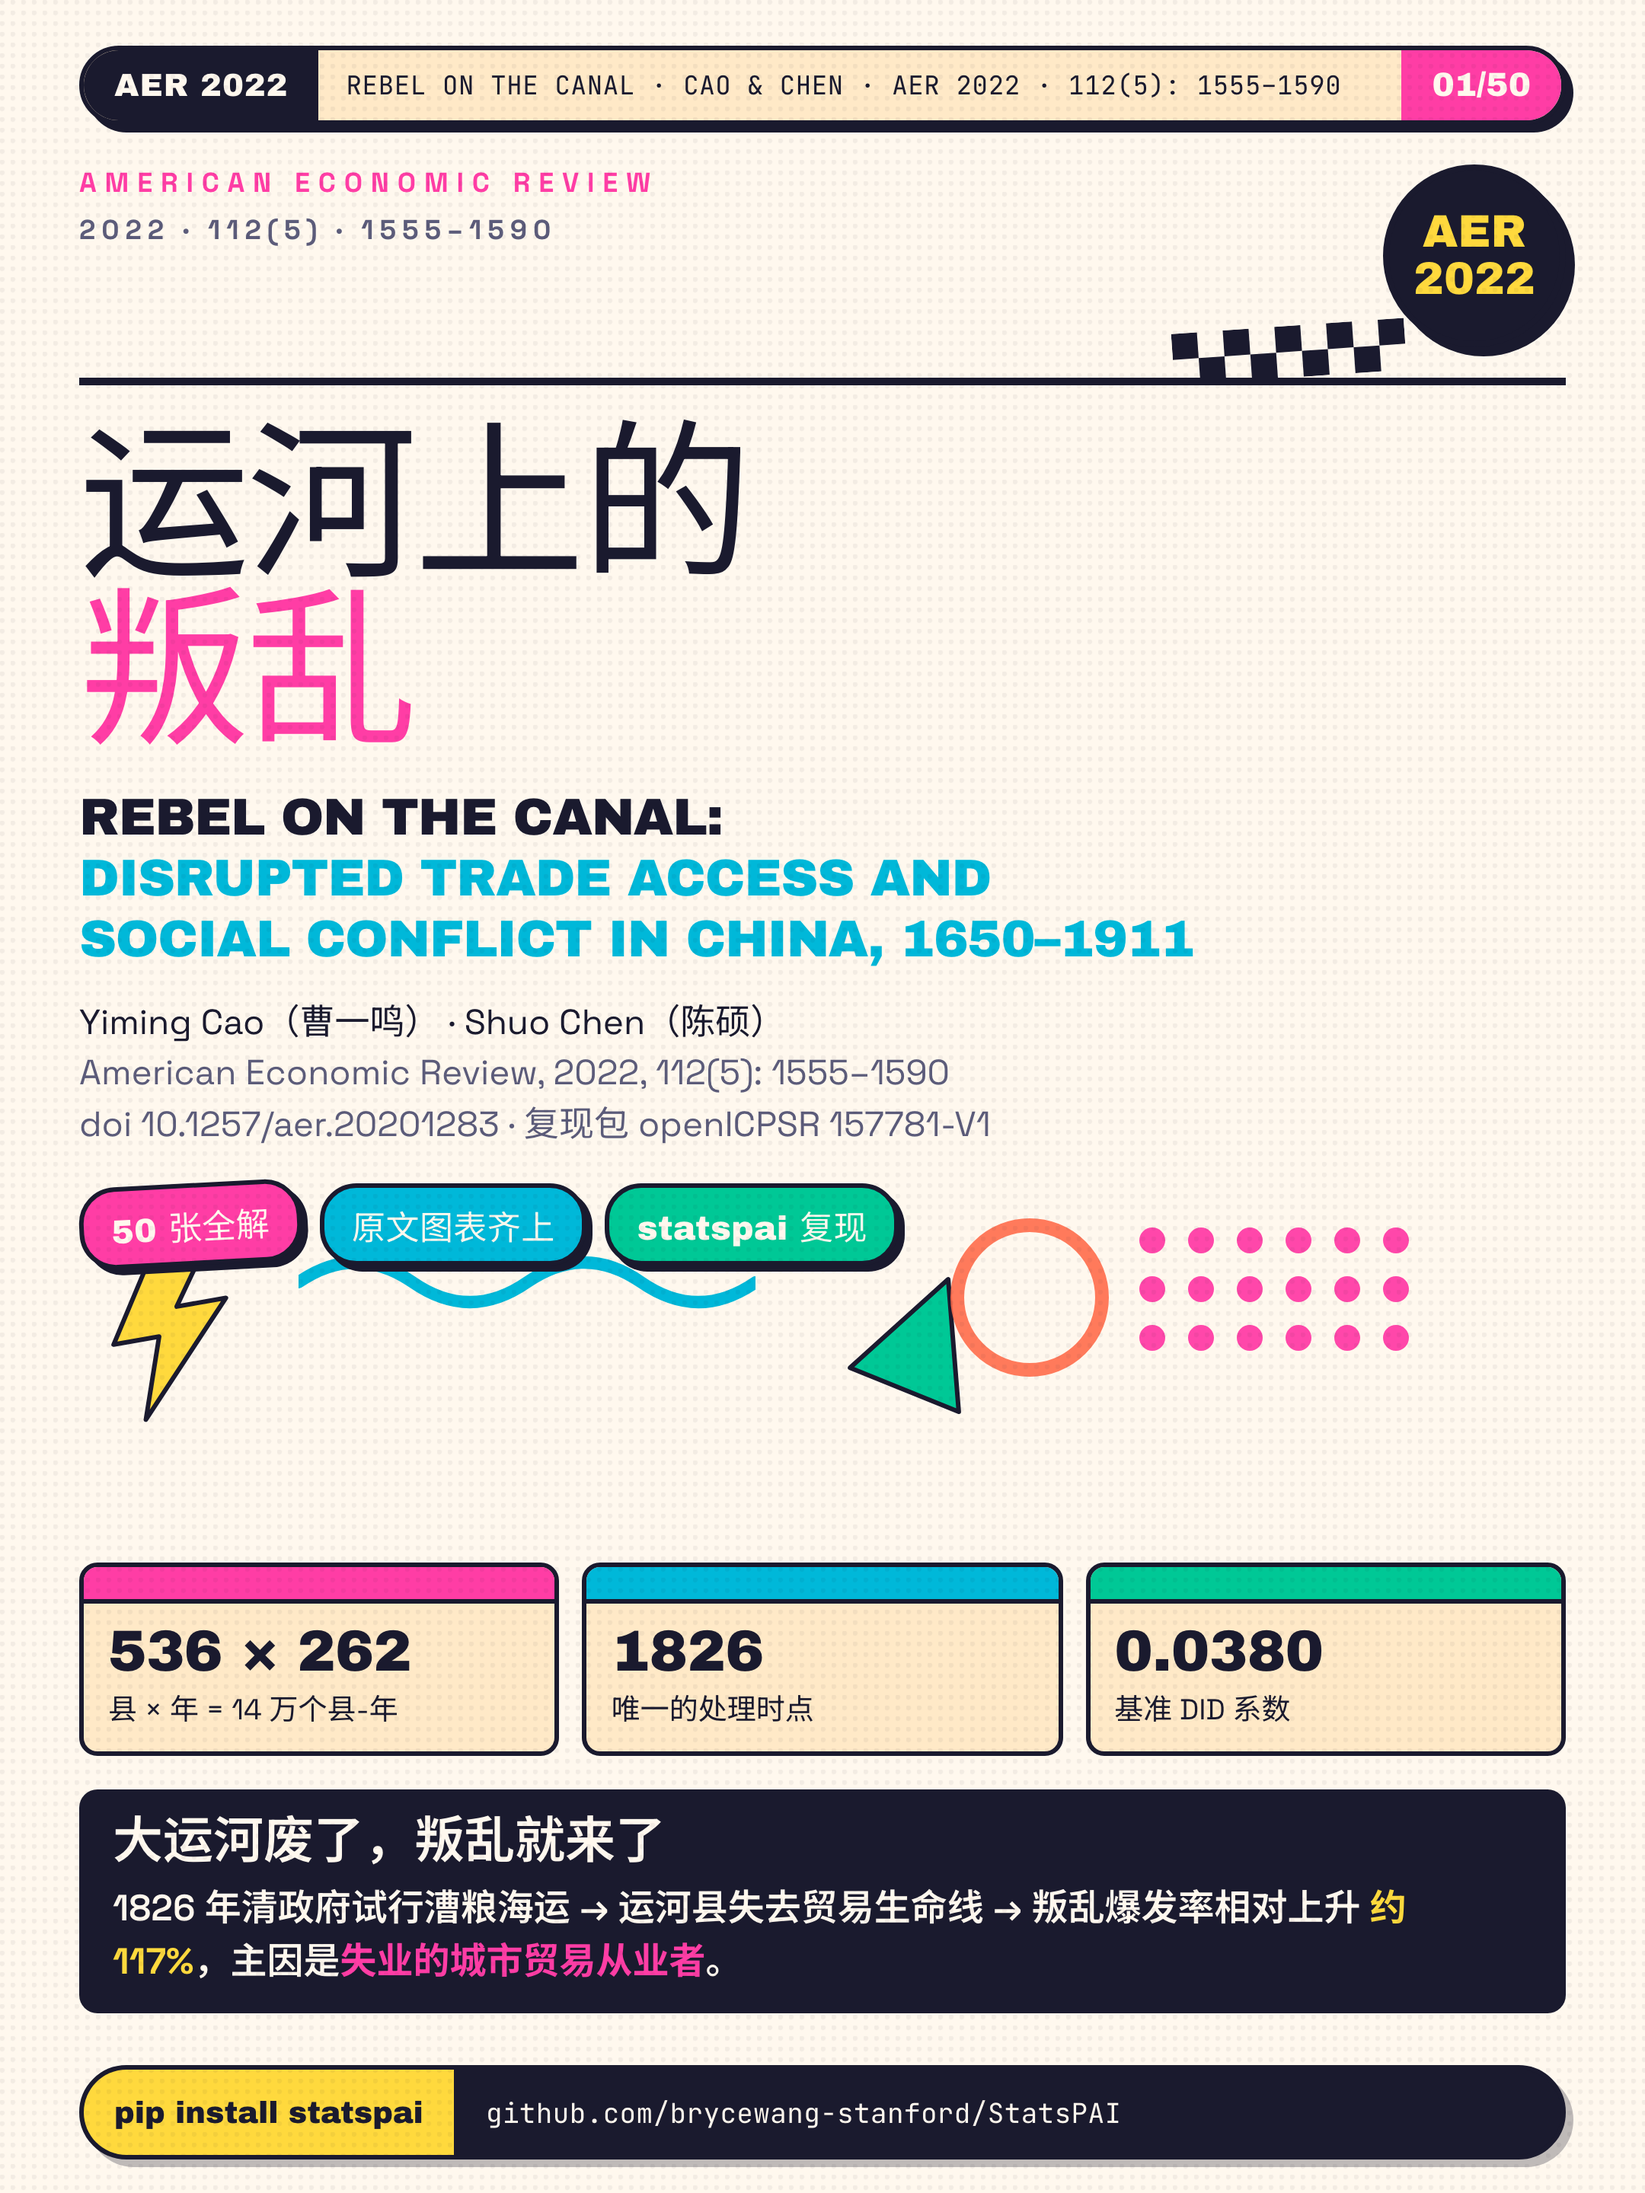
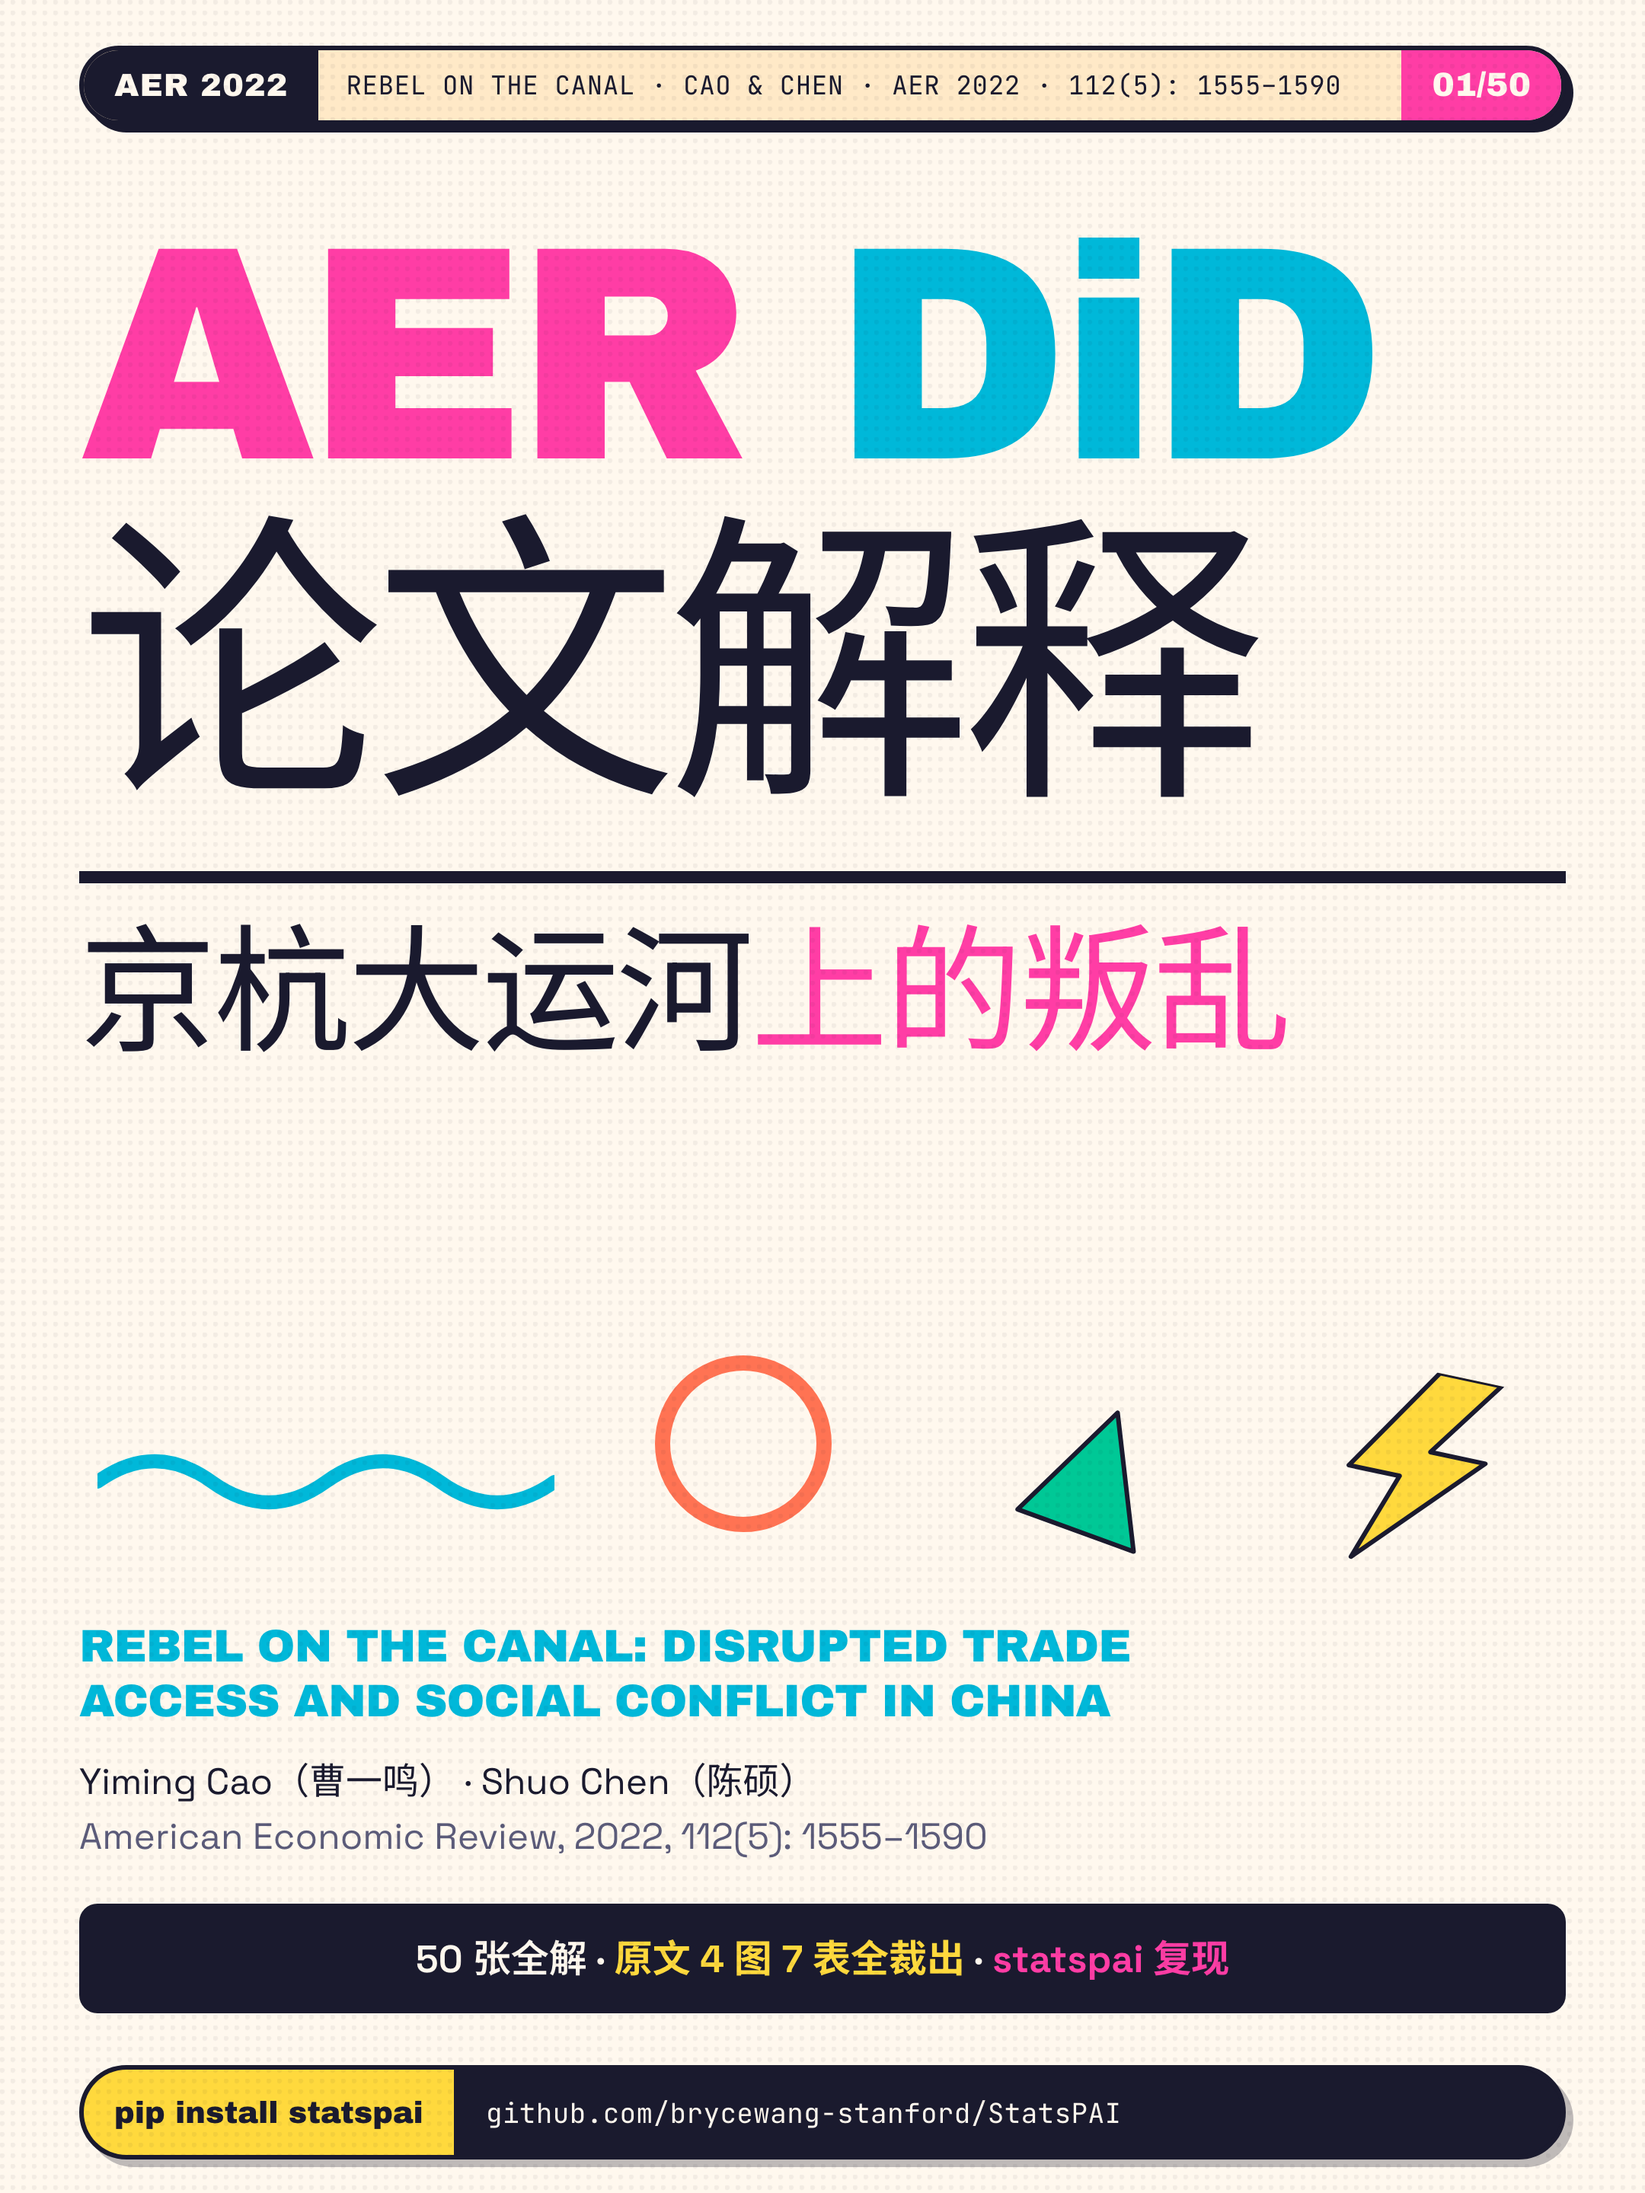
封面重排：一级标题「AER DiD 论文解释」放到最大，元素做减法
- 一级标题 AER DiD 论文解释 提到 200px，撞色 AER 粉 + DiD 蓝
- 二级标题「京杭大运河上的叛乱」降到 90px，「上的叛乱」粉色收尾
- 删掉 AER 圆章、期刊 kicker、三枚印戳、三张数字卡片、结论黑条、
  棋盘条纹与 DOI 行，封面元素从 11 个块减到 5 个
- 装饰碎片移到中间空白带，不再压住英文原题

diff --git a/小红书海报/_源码/posters.py b/小红书海报/_源码/posters.py
@@ -105,59 +105,31 @@ def station(no, cn, en, bullets, color, pages="", tail=""):
 
 # ═══════════════════════════════════════════ 01 封面
 add("封面", CV(f"""
-  <div style="height:26px"></div>
-  <div style="display:flex;align-items:flex-start;gap:18px">
-    <div style="flex:1">
-      <div class="micro xl" style="color:{PINK}">AMERICAN ECONOMIC REVIEW</div>
-      <div class="micro lg mut" style="margin-top:8px">2022 · 112(5) · 1555–1590</div>
-    </div>
-    <div class="seal ink">AER<br>2022</div>
-  </div>
-  <div style="height:5px;background:{INK};margin:20px 0 26px"></div>
-
-  <div class="hero" style="font-size:112px">运河上的</div>
-  <div class="hero" style="font-size:112px;color:{PINK}">叛乱</div>
-  <div class="hero" style="font-size:34px;margin-top:18px;line-height:1.18">
-    REBEL ON THE CANAL:<br>
-    <span style="color:{BLUE}">DISRUPTED TRADE ACCESS AND</span><br>
-    <span style="color:{BLUE}">SOCIAL CONFLICT IN CHINA, 1650–1911</span></div>
-  <div style="font-size:23px;line-height:1.45;margin-top:18px">
-    Yiming Cao（曹一鸣） · Shuo Chen（陈硕）<br>
-    <span style="color:{MUT}">American Economic Review, 2022, 112(5): 1555–1590<br>
-    doi 10.1257/aer.20201283 · 复现包 openICPSR 157781-V1</span></div>
-
-  <div style="margin-top:22px;display:flex;gap:12px;align-items:center;flex-wrap:wrap">
-    <span class="stamp">50 张全解</span>
-    <span class="stamp blue flat">原文图表齐上</span>
-    <span class="stamp mint flat">statspai 复现</span>
-  </div>
+  <div style="height:52px"></div>
+  <div class="hero" style="font-size:200px;letter-spacing:-.035em;line-height:1.0">
+    <span style="color:{PINK}">AER</span> <span style="color:{BLUE}">DiD</span></div>
+  <div class="hero" style="font-size:200px;letter-spacing:-.035em;line-height:1.06">
+    论文解释</div>
+  <div style="height:8px;background:{INK};margin:26px 0 24px"></div>
+  <div class="hero" style="font-size:90px;letter-spacing:-.02em;line-height:1.1">
+    京杭大运河<span style="color:{PINK}">上的叛乱</span></div>
 
   <div style="flex:1"></div>
-  <div class="g3" style="margin-bottom:22px">
-    <div class="card flat dk"><div class="strip" style="background:{PINK}"></div>
-      <div class="in" style="padding:12px 16px 14px;gap:4px">
-        <div class="nm" style="font-size:38px">536 × 262</div>
-        <p style="font-size:19px">县 × 年 = 14 万个县-年</p></div></div>
-    <div class="card flat dk"><div class="strip" style="background:{BLUE}"></div>
-      <div class="in" style="padding:12px 16px 14px;gap:4px">
-        <div class="nm" style="font-size:38px">1826</div>
-        <p style="font-size:19px">唯一的处理时点</p></div></div>
-    <div class="card flat dk"><div class="strip" style="background:{MINT}"></div>
-      <div class="in" style="padding:12px 16px 14px;gap:4px">
-        <div class="nm" style="font-size:38px">0.0380</div>
-        <p style="font-size:19px">基准 DID 系数</p></div></div>
+
+  <div class="hero" style="font-size:30px;line-height:1.22;color:{BLUE}">
+    REBEL ON THE CANAL: DISRUPTED TRADE<br>
+    ACCESS AND SOCIAL CONFLICT IN CHINA</div>
+  <div style="font-size:24px;line-height:1.5;margin-top:16px">
+    Yiming Cao（曹一鸣） · Shuo Chen（陈硕）<br>
+    <span style="color:{MUT}">American Economic Review, 2022, 112(5): 1555–1590</span></div>
+  <div class="bar" style="margin-top:26px;margin-bottom:14px;padding:18px 24px;
+       font-size:25px;text-align:center">
+    50 张全解 · <b>原文 4 图 7 表全裁出</b> · <i>statspai 复现</i>
   </div>
-  <div class="bar" style="margin-bottom:14px">
-    <span class="h">大运河废了，叛乱就来了</span>
-    1826 年清政府试行漕粮海运 → 运河县失去贸易生命线 →
-    叛乱爆发率相对上升 <b>约 117%</b>，主因是<i>失业的城市贸易从业者</i>。
-  </div>
-""", deco(dots(748, 806, 6, 3, 17, 32, PINK, .95),
-          zig(70, 812, 82, 116, YELLOW, 1, -10),
-          tri(566, 836, 80, MINT, 22),
-          wave(196, 816, 300, 52, BLUE, 8),
-          checker(770, 214, 9, 2, 17, INK, -4),
-          ring(624, 800, 104, CORAL, 9, .9))))
+""", deco(zig(880, 900, 92, 130, YELLOW, 1, 12),
+          wave(64, 946, 300, 54, BLUE, 9),
+          ring(430, 890, 116, CORAL, 10, .95),
+          tri(676, 924, 84, MINT, 20))))
 
 # ═══════════════════════════════════════════ 02 第一作者
 add("第一作者", PG("第一作者", meta("WHO WROTE IT", "YIMING CAO"), f"""
